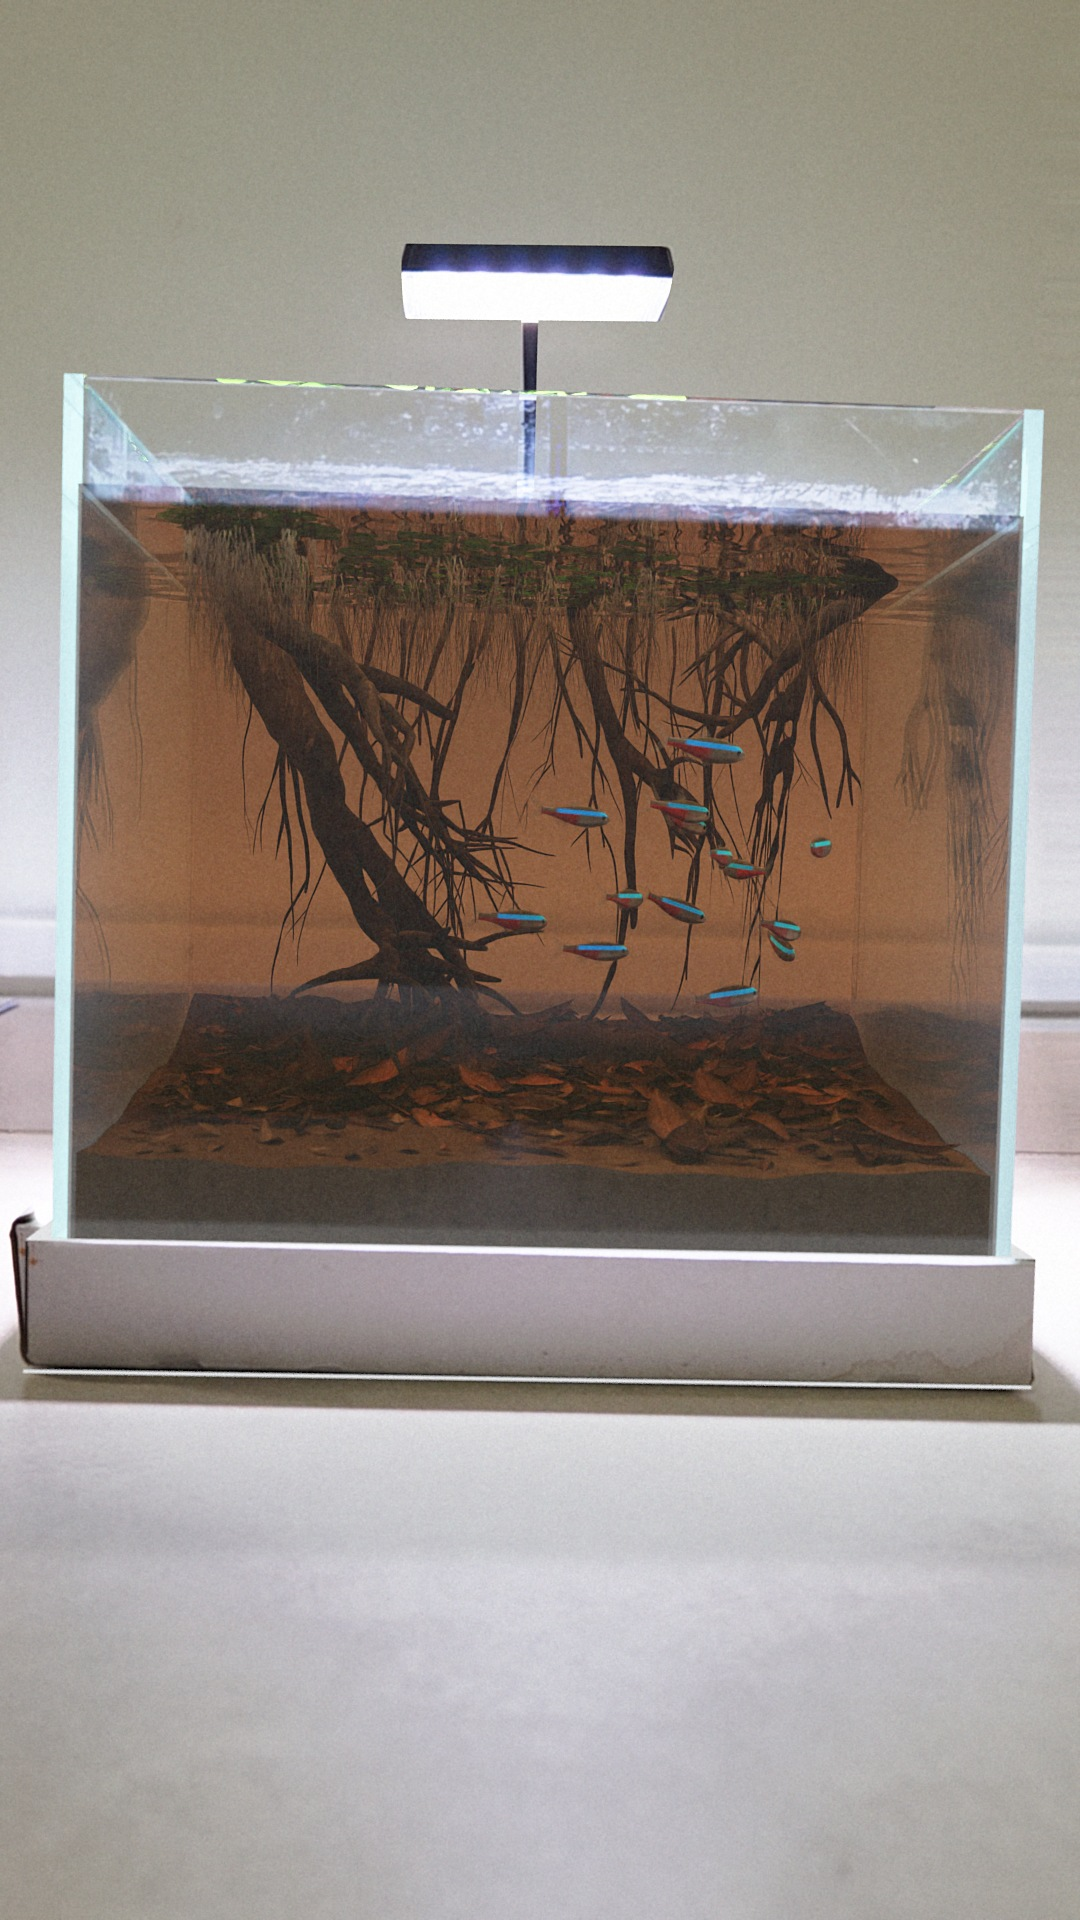
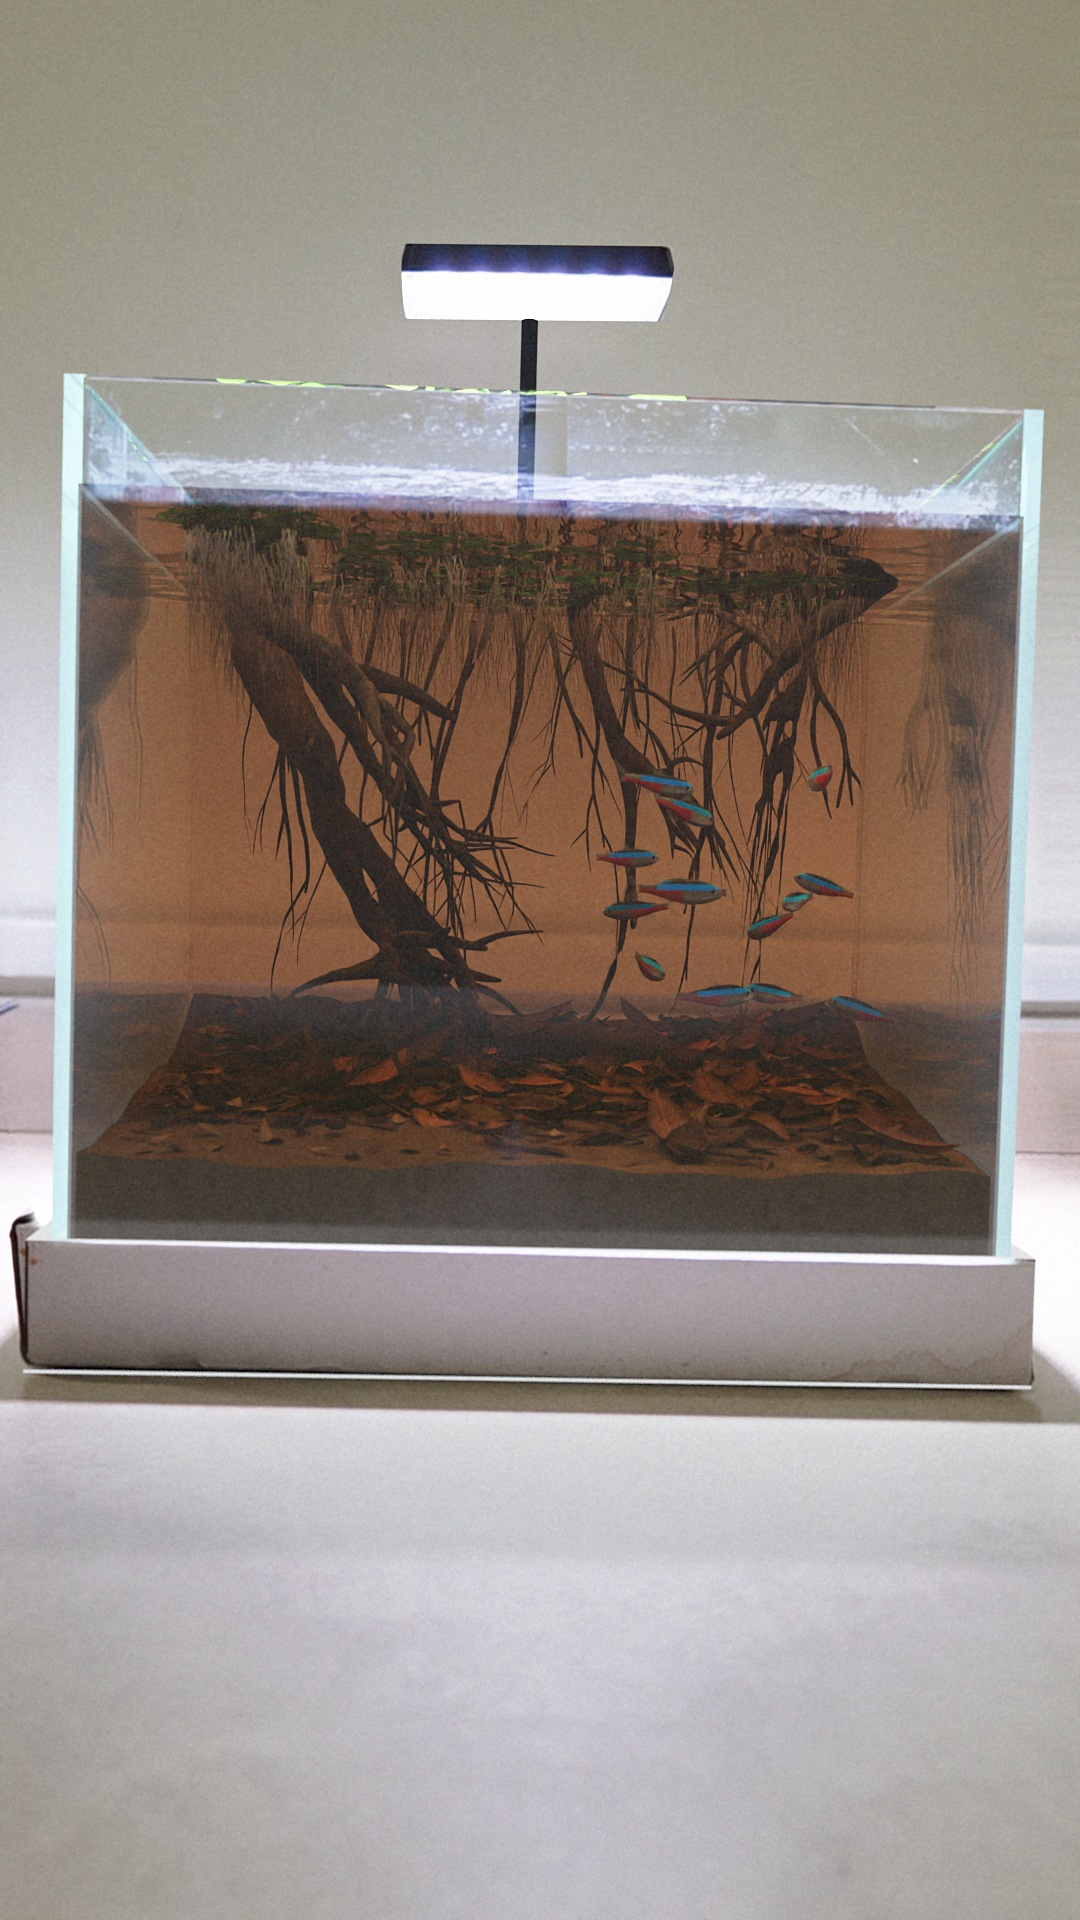
Fix flat lighting across all scapes and act on the second review
A second independent review scored the five stills 3 to 5 out of 10.
The main shared fault was mine: objects instanced by scatters were not
registered to receive the lamp's light through the water surface, so
every plant was lit by soft fill alone. All scape objects are now
registered in build.py; plants and floating rocks cast real shadows.
Also: tetras get a dark matt back, a broader stripe and no head-on
poses; the lamp stem no longer ghosts when the camera moves; grass is
kept off the glass; the sand-fall is moving grains instead of a rod;
snails sit side-on on sand. render.ps1 no longer aborts on warnings.
review/scores.md records both reviews and what was done about each item.

Changed region(s): [[0.4583, 0.375, 0.7944, 0.5312], [0.4583, 0.1562, 0.5194, 0.2812], [0.7639, 0.5, 0.825, 0.5312]]

diff --git a/src/sim/school.py b/src/sim/school.py
@@ -20,7 +20,7 @@ import numpy as np
 
 FPS = 30
 SUBSTEPS = 4
-VERSION = 3      # bump whenever the model changes, so cached runs are not reused
+VERSION = 7      # bump whenever the model changes, so cached runs are not reused
 
 
 def _smooth_noise(t, phases, periods):
@@ -29,7 +29,7 @@ def _smooth_noise(t, phases, periods):
 
 
 def simulate(n, frame_start, frame_end, box, seed=0, obstacles=(), ground=None,
-             spread=(45.0, 45.0, 20.0), cruise=22.0, tour=(17.0, 12.0, 9.0), warmup_s=12.0):
+             spread=(45.0, 45.0, 20.0), cruise=22.0, tour=(17.0, 10.0, 9.0), warmup_s=12.0):
     """Simulate `n` fish for frames [frame_start, frame_end).
 
     box        (xmin, xmax, ymin, ymax, zmin, zmax): the open water the shoal roams
@@ -51,7 +51,7 @@ def simulate(n, frame_start, frame_end, box, seed=0, obstacles=(), ground=None,
     tour = np.array(tour)
     tour_phase = rng.uniform(0, 2 * math.pi, 3)
 
-    offset = rng.normal(0, 1, (n, 3)) * spread * 0.75
+    offset = np.clip(rng.normal(0, 1, (n, 3)), -1.6, 1.6) * spread * 0.75     # no stragglers far outside the group
     P = centre + offset + rng.normal(0, 4, (n, 3))
     V = rng.normal(0, 6, (n, 3)) * np.array([1, 1, 0.3])
     H = V / (np.linalg.norm(V, axis=1, keepdims=True) + 1e-6)
@@ -79,7 +79,7 @@ def simulate(n, frame_start, frame_end, box, seed=0, obstacles=(), ground=None,
         T = centre + roam * np.sin(2 * math.pi * t / tour + tour_phase)
         wander = np.mean(np.sin(2 * math.pi * t / wander_T + wander_ph), axis=2) * spread * 0.45
         goal = T + offset + wander
-        A = (goal - P) * 0.55
+        A = (goal - P) * np.array([0.55, 1.0, 0.55])       # follow the group's front-to-back wander closely
 
         # neighbours: keep apart, roughly agree on direction
         D = P[:, None, :] - P[None, :, :]
@@ -91,7 +91,7 @@ def simulate(n, frame_start, frame_end, box, seed=0, obstacles=(), ground=None,
         A += (np.sum(np.where(nb[..., None], V[None, :, :], 0.0), axis=1) / cnt - V) * 1.3 * (nb.any(axis=1, keepdims=True))
 
         # soft walls, surface and floor
-        floor = np.full(n, 30.0) if ground is None else np.array([ground(x, y) for x, y in P[:, :2]])
+        floor = np.full(n, 30.0) if ground is None else np.array([ground(min(max(float(x), 0.0), 300.0), min(max(float(y), 0.0), 300.0)) for x, y in P[:, :2]])
         lo_i = np.column_stack([np.full(n, lo[0]), np.full(n, lo[1]), floor + 18.0])
         m = 32.0
         A += np.clip(lo_i + m - P, 0, None) * 9.0
@@ -129,6 +129,9 @@ def simulate(n, frame_start, frame_end, box, seed=0, obstacles=(), ground=None,
         Hn = H + (V / (speed[:, None] + 1e-6) - H) * (np.minimum(1.0, speed / 20.0) * dt / 0.45)[:, None]
         # Tetras swim close to level: cap the pitch at about 20 degrees, measured
         # against the horizontal part of the heading so a hovering fish cannot tip on end.
+        # Seen dead head-on or tail-on a tetra is just a dot, so headings stay at
+        # least a third of the way toward side-on; fish still travel in depth, at a slant.
+        Hn[:, 1] = np.clip(Hn[:, 1], -1.6 * np.abs(Hn[:, 0]) - 1e-3, 1.6 * np.abs(Hn[:, 0]) + 1e-3)
         hxy = np.linalg.norm(Hn[:, :2], axis=1)
         flat = hxy < 0.2
         Hn[flat, :2] = H[flat, :2]

diff --git a/src/blender/fish.py b/src/blender/fish.py
@@ -244,7 +244,7 @@ def tetra_materials():
     N[-1].inputs[2].default_value = 2.00
     dz = _math(nt, "SUBTRACT", z, zc)
     adz = _math(nt, "ABSOLUTE", dz)
-    band = _smooth(nt, adz, 0.62, 0.92, 1.0, 0.0)
+    band = _smooth(nt, adz, 0.78, 1.08, 1.0, 0.0)
     along = _math(nt, "MULTIPLY", _smooth(nt, s, 0.035, 0.07), _smooth(nt, s, 0.74, 0.80, 1.0, 0.0))
     blue_m = _math(nt, "MULTIPLY", band, along)
     red_m = _math(nt, "MULTIPLY", _smooth(nt, dz, -0.85, -0.50, 1.0, 0.0), _smooth(nt, s, 0.40, 0.52))
@@ -254,7 +254,7 @@ def tetra_materials():
     lw.inputs["Blend"].default_value = 0.45
     blue = _mix(nt, lw.outputs["Facing"], (0.00, 0.30, 1.00), (0.00, 0.95, 0.85))
     col = _mix(nt, red_m, (0.30, 0.32, 0.31), (0.50, 0.004, 0.004))
-    col = _mix(nt, back_m, col, (0.085, 0.072, 0.030))
+    col = _mix(nt, back_m, col, (0.020, 0.019, 0.010))
     col = _mix(nt, blue_m, col, blue)
 
     bsdf = N.new("ShaderNodeBsdfPrincipled")
@@ -262,11 +262,13 @@ def tetra_materials():
     silver_m = _math(nt, "SUBTRACT", 1.0, _math(nt, "MAXIMUM", red_m, back_m))
     metal = _math(nt, "MAXIMUM", _math(nt, "MULTIPLY", blue_m, 0.9), _math(nt, "MULTIPLY", silver_m, 0.55))
     L.new(metal, bsdf.inputs["Metallic"])
-    bsdf.inputs["Roughness"].default_value = 0.28
+    # The back is matt and dark so it does not flare white under the lamp.
+    L.new(_math(nt, "MULTIPLY_ADD", back_m, 0.24), bsdf.inputs["Roughness"])
+    N[-1].inputs[2].default_value = 0.28
     L.new(blue, bsdf.inputs["Emission Color"])
-    L.new(_math(nt, "MULTIPLY", blue_m, 0.85), bsdf.inputs["Emission Strength"])
+    L.new(_math(nt, "MULTIPLY", blue_m, 0.30), bsdf.inputs["Emission Strength"])
     # A tetra is a small, thin, half-transparent animal: light gets into the body.
-    bsdf.inputs["Subsurface Weight"].default_value = 0.35
+    L.new(_math(nt, "MULTIPLY", _math(nt, "SUBTRACT", 1.0, back_m), 0.35), bsdf.inputs["Subsurface Weight"])
     bsdf.inputs["Subsurface Radius"].default_value = (1.0, 0.6, 0.45)
     bsdf.inputs["Subsurface Scale"].default_value = 0.002
     L.new(bsdf.outputs[0], out.inputs["Surface"])

diff --git a/src/blender/scapes/05_floating.py b/src/blender/scapes/05_floating.py
@@ -34,6 +34,10 @@ from scatter import collection_of, scatter, set_point_attribute
 
 SCAPE = "05_floating"
 
+# Less soft fill than the other scapes: the islands' shadows on the pale sand are
+# what make them read as really hanging there, and fill washes them out.
+LIGHT = dict(fill=0.006, bounce=0.018)
+
 # name, model, piece, longest side, (x, y, underside z), how the scan is stood up,
 # (lean, lean, heading), hanging roots (count, shortest, longest, base radius),
 # what grows on top. Each scan is stood so it is broad on top and narrows
@@ -717,6 +721,9 @@ def build(ctx):
     path = _FallPath(lip, ground(lip.x / MM, lip.y / MM) - 1.5, seed=3)
     verts, faces = _sandfall_mesh(path)
     fall = new_mesh_object("SandFall", verts, faces, smooth=True)
+    # The solid core read as a white rod holding the island up. The fall is left
+    # to its moving grains alone, which read as sand in the act of falling.
+    fall.hide_render = True
     fall_mat, fall_maps = _sandfall_material()
     fall.data.materials.append(fall_mat)
     grains = _FallGrains("SandFallGrains", path, substrate.sand_material("FallGrain", colour=(0.66, 0.62, 0.54)))
@@ -929,11 +936,11 @@ def animate(ctx, frame):
     y = 40 + 3.0 * math.sin(t * 0.3)
     s.pose(Vector(ctx["bed"].at(x, y)), yaw=0.05 * math.cos(t * 0.3), t=t, up=tuple(_ground_normal(x, y)), walk=w)
 
-    # the nerite creeps up the front glass, low on the left, sole against the pane
-    yaw = -1.25
-    d = Vector((math.cos(yaw), 0.0, -math.sin(yaw)))
-    p = Vector((34.0, 5.3, 71.0)) + d * (t - 67.0) * 0.8
-    ctx["critters"]["snail"].pose(p * MM, yaw=yaw, t=t, up=(0, 1, 0))
+    # The nerite crosses the sand at the front left, side-on to the camera so its
+    # striped shell shows (on the front glass it showed only a grey sole).
+    x = 58.0 + (t - 67.0) * 0.55
+    y = 34.0
+    ctx["critters"]["snail"].pose(Vector(ctx["bed"].at(x, y)), yaw=0.1, t=t, up=tuple(_ground_normal(x, y)))
 
 
 # --- checks (FLOAT_CHECK=1) -------------------------------------------------------

diff --git a/src/blender/scapes/01_iwagumi.py b/src/blender/scapes/01_iwagumi.py
@@ -62,7 +62,7 @@ def build(ctx):
         obj.name = name
         full = h / (1 - buried)
         assets.place(obj, bed.at(x, y), height_mm=full, pre_rot_deg=pre, rot_deg=rot, sink_mm=full * buried)
-        assets.grade_stone(obj, seed=k * 1.7)
+        assets.grade_stone(obj, vein_amount=0.42, seed=k * 1.7)
         stones.append((obj, x, y, assets.footprint_radius_mm(obj), ground(x, y) + h))
         made.append(obj)
 
@@ -71,7 +71,9 @@ def build(ctx):
         for _, sx, sy, r, _ in stones:
             d = math.hypot(x - sx, y - sy)
             w = min(w, max(0.0, min(1.0, (d - r * 0.70) / (r * 0.25))))
-        return w * (0.55 + 0.45 * min(1.0, y / 60))      # thinner against the front glass
+        # blades lean and sway, so tufts start a little in from the side and back glass
+        wall = max(0.0, min(1.0, (min(x - 5, 295 - x, 295 - y) - 6.0) / 12.0))
+        return w * wall * (0.55 + 0.45 * min(1.0, y / 60))      # thinner against the front glass
     bed.set_weight("carpet", carpet)
     tufts = collection_of("HairgrassSrc", plants.hairgrass_tufts(variants=6, blades=(10, 18), height_mm=(14, 34)))
     scatter(bed.obj, tufts, name="Hairgrass", min_distance=3.3 * MM, weight_attr="carpet", seed=21,

diff --git a/src/blender/build.py b/src/blender/build.py
@@ -74,10 +74,18 @@ def build(scape="empty", frame=1, quality="preview", out=None, lamp_watts=None):
         tank_mod.animate_ripples(drift, 0, 2400)
         ctx["water"] = water
     protected = set(bpy.data.materials)        # room, lamp, glass, water: never hidden by the reveal
+    scene_objects = set(bpy.data.objects)
     ctx["scape"] = scape
     ctx["module"] = mod
     if mod is not None:
         mod.build(ctx)
+        # Every object the scape made must take the lamp's light through the water
+        # surface, including the source objects that scatters instance (which are
+        # in no scene collection and so are easy to miss). An object left out is
+        # lit only by the soft fill: flat, and without shadows.
+        for ob in bpy.data.objects:
+            if ob not in scene_objects and ob.type in {"MESH", "CURVE"}:
+                ob.cycles.is_caustics_receiver = True
         if timeline.is_filling(scape):
             tank_mod.add_reveal([m for m in bpy.data.materials if m not in protected])
         # Behind a filled tank the cable only shows as confusing mirror images in

diff --git a/src/plate/clean_plate.py b/src/plate/clean_plate.py
@@ -151,6 +151,13 @@ def main():
     dry = cam.hull_mask([(7, 0, 263), (293, 0, 263), (293, 0, 299), (7, 0, 299)])
     dry = cv2.GaussianBlur(dry.astype(np.float32) / 255.0, (0, 0), 2.0)[..., None]
     dirt = np.clip(lin_lit - linear, 0, None) * dry
+    # The lamp's stem stands behind this glass and leaves a gap in the smears
+    # where it blocked the view; bridge the gap from either side.
+    s = room["lamp"]["stem"]
+    sx = cam.project([(s["x"], s["y"], 290.0)])[0][0]
+    a, b = int(sx - 16), int(sx + 16)
+    w = np.linspace(0, 1, b - a, dtype=np.float32)[None, :, None]
+    dirt[:, a:b] = dirt[:, a - 1:a] * (1 - w) + dirt[:, b:b + 1] * w
     cv2.imwrite(str(paths.PLATE / "glass_dirt_linear.exr"), dirt.astype(np.float32), [cv2.IMWRITE_EXR_TYPE, cv2.IMWRITE_EXR_TYPE_HALF])
     back = colour.linear_to_display(cv2.imread(str(paths.PLATE / "room_plate_linear.exr"), cv2.IMREAD_UNCHANGED).astype(np.float64))
     err = float(np.abs(back - room_plate)[room_plate.max(axis=2) < 0.995].max())

diff --git a/src/blender/room.py b/src/blender/room.py
@@ -196,7 +196,9 @@ def build_lamp(collection=None, led_strength=40.0):
                                         location=(sx, sy, (s["z_top"] + 300.0) / 2 * MM))
     stem = bpy.context.active_object
     stem.name = "LampStem"
-    stem.data.materials.append(black)
+    # A plain dark rod: projecting the frame onto it baked in the limescale band
+    # that crosses it on the front glass, which then slid about as the camera moved.
+    stem.data.materials.append(emission_material("StemBlack", (0.020, 0.020, 0.026), 1.0))
     _relink(stem, col)
 
     cl = lamp["clamp"]

diff --git a/review/scores.md b/review/scores.md
@@ -1,0 +1,66 @@
+# Review record
+
+Two rounds of independent review by a fresh-context reviewer (an Opus subagent
+given only the stills and a description of what is real and what is rendered),
+with what was done about each finding. Scores are the reviewer's, on the stills
+as they stood before the fixes listed; the stills in this folder are the fixed
+ones and have not been re-scored independently.
+
+## Round 1: look test (scape 1), scored 3/10
+
+| Finding | Disposition |
+|---|---|
+| Fish read as stickers: all side-on, opaque, flat colours | Fixed: translucent body, mixed angles, shoaling simulation |
+| Stones read as grey clay | Fixed: scan detail kept, strata, calcite veins, staining; stood on their best face and part buried |
+| No visible soil band | Fixed: bed raised so it shows above the tray |
+| Lighting too soft, no caustics | Fixed: lamp is ten discrete LED sources; fine ripples added; fill cut back |
+| Side panes and surface show the room and cable | Justified and changed: the mirror images are physically right, but the cable is left out behind water because its reflections read as errors |
+| Grass like a lawn | Fixed: clumped, uneven, cooler green |
+| Glass edges change colour at the waterline | Fixed: filmed edges kept in the composite; rendered edges later matched to them |
+| Milky veil, lifted blacks | Fixed (found in round 2): the glass was mirroring the plate's repeated bottom edge; room dimmed for reflection rays |
+| Render too clean beside phone footage | Fixed: grain measured from the footage, phone-like sharpening; filmed glass smears kept above the waterline |
+| Floor light pool unchanged by tank contents | Fixed: eased down as the tank fills |
+
+## Round 2: five design stills
+
+| Scape | Scale | Light | Grounding | Optics | Animals | Overall |
+|---|---|---|---|---|---|---|
+| 1 Iwagumi | 4 | 3 | 3 | 3 | 2 | 5/10 |
+| 2 Dutch | 4 | 3 | 2 | 3 | 2 | 4/10 |
+| 3 Forest | 3 | 3 | 3 | 3 | 3 | 4/10 |
+| 4 Blackwater | 4 | 2 | 3 | 2 | 2 | 4/10 |
+| 5 Floating Islands | 3 | 3 | 1 | 3 | 2 | 3/10 |
+
+Shared findings:
+
+| Finding | Disposition |
+|---|---|
+| Flat lighting, no cast shadows, nothing under the floating rocks | Fixed. Root cause: objects instanced by scatters were not registered to receive the lamp's light through the water surface, so every plant was lit by soft fill alone. All scape objects are now registered centrally in `build.py`. Fill reduced in scape 5 so island shadows read |
+| Fish: pale back, thin stripe, toy saturation, head-on "pills" | Fixed: dark matt olive back, broader stripe, far less self-glow; simulation keeps headings at least a third of the way to side-on |
+| Ghost of the lamp arm with a white band when the camera moves | Fixed: stem is a plain dark rod again; the gap it left in the projected glass smears is bridged |
+| Front substrate cross-section flat and textureless | Open. Granules are there but small and soft at this size; the forest's sand pocket still reads as a block |
+| Underside-of-surface mirror inconsistent between scapes | Justified: it is computed, and shows whatever lies along the reflected ray in each layout |
+| No meniscus line, no particles in the water, everything very clean | Open (low priority) |
+| Colour streaks on the top rim of the back glass | Justified: refraction of the planting through the rim; left as computed |
+| Shrimp and snail read as simple shapes | Partly fixed: snails moved onto sand side-on so the shell shows; shrimp are about 60 px long and keep their modelled legs and feelers |
+
+Per scape:
+
+| Scape | Finding | Disposition |
+|---|---|---|
+| 1 | Hairgrass pokes through the side glass | Fixed: tufts start in from the glass |
+| 1 | Veins look painted on | Reduced |
+| 2 | Plants look like plastic decor | Largely fixed by the lighting fix (leaves now lit, shaded and translucent); groups still a little hedge-like |
+| 3 | Sand path ends in a geometric block at the glass | Open |
+| 3 | Trunks smooth, canopies repeat | Open |
+| 4 | Roots seem to hang from the surface with no support | Open: intended as roots reaching in from a bank; could be made to break the surface more visibly |
+| 4 | Tea colour reads as a flat filter | Justified in part: absorption does deepen with distance; shafts of light would help |
+| 5 | White rod under an island (the sand-fall) | Fixed: solid core hidden, the fall is moving grains only |
+| 5 | Snail looks like a coin | Fixed: moved onto the sand, side-on |
+| 5 | Rock undersides look like cones | Open |
+
+## Coordinator's own view after the fixes
+
+Not an independent score. Scapes 1, 2 and 5 improved most. The weakest remaining
+points are the substrate cross-sections at the front glass, the forest's trunks
+and sand pocket, and the plain lower background of the blackwater scape.
